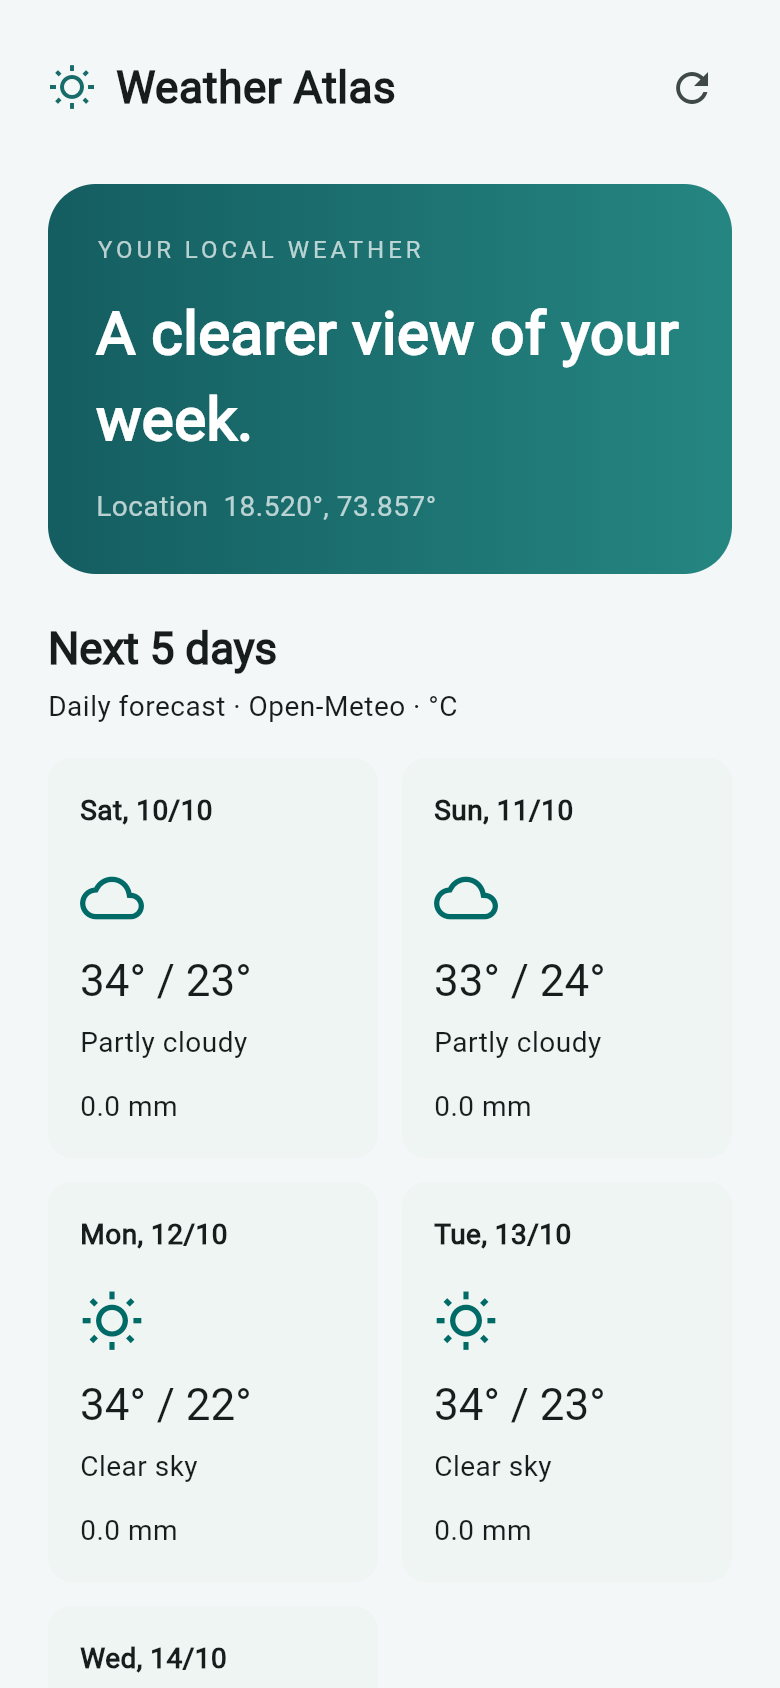
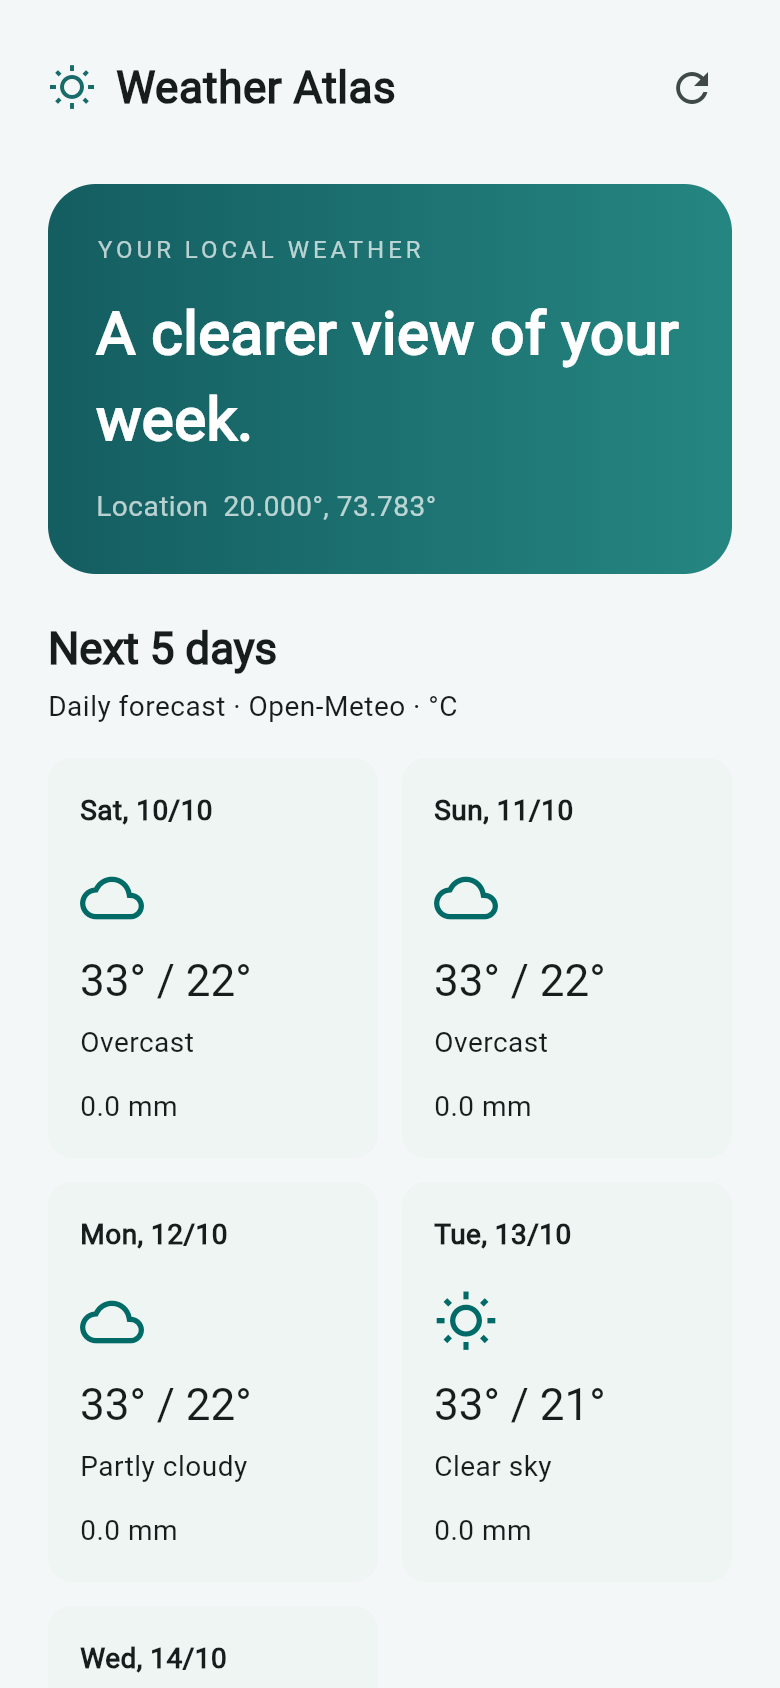
docs: use Nashik weather in screenshot previews

diff --git a/README.md b/README.md
@@ -21,7 +21,7 @@ A Flutter weather app for Android and Web, with forecasts and recent weather his
 | --- | --- |
 | <img src="docs/screenshots/mobile-browser-forecast.png" alt="Weather Atlas forecast in a mobile browser viewport" width="300"> | <img src="docs/screenshots/mobile-browser-history.png" alt="Weather Atlas recent history in a mobile browser viewport" width="300"> |
 
-Browser captures with live Pune weather; mobile previews use a phone-sized viewport. Maps require API keys.
+Browser preview using Nashik, my current location. Maps require API keys. Mobile previews use a phone-sized browser viewport.
 
 ## Run locally
 
